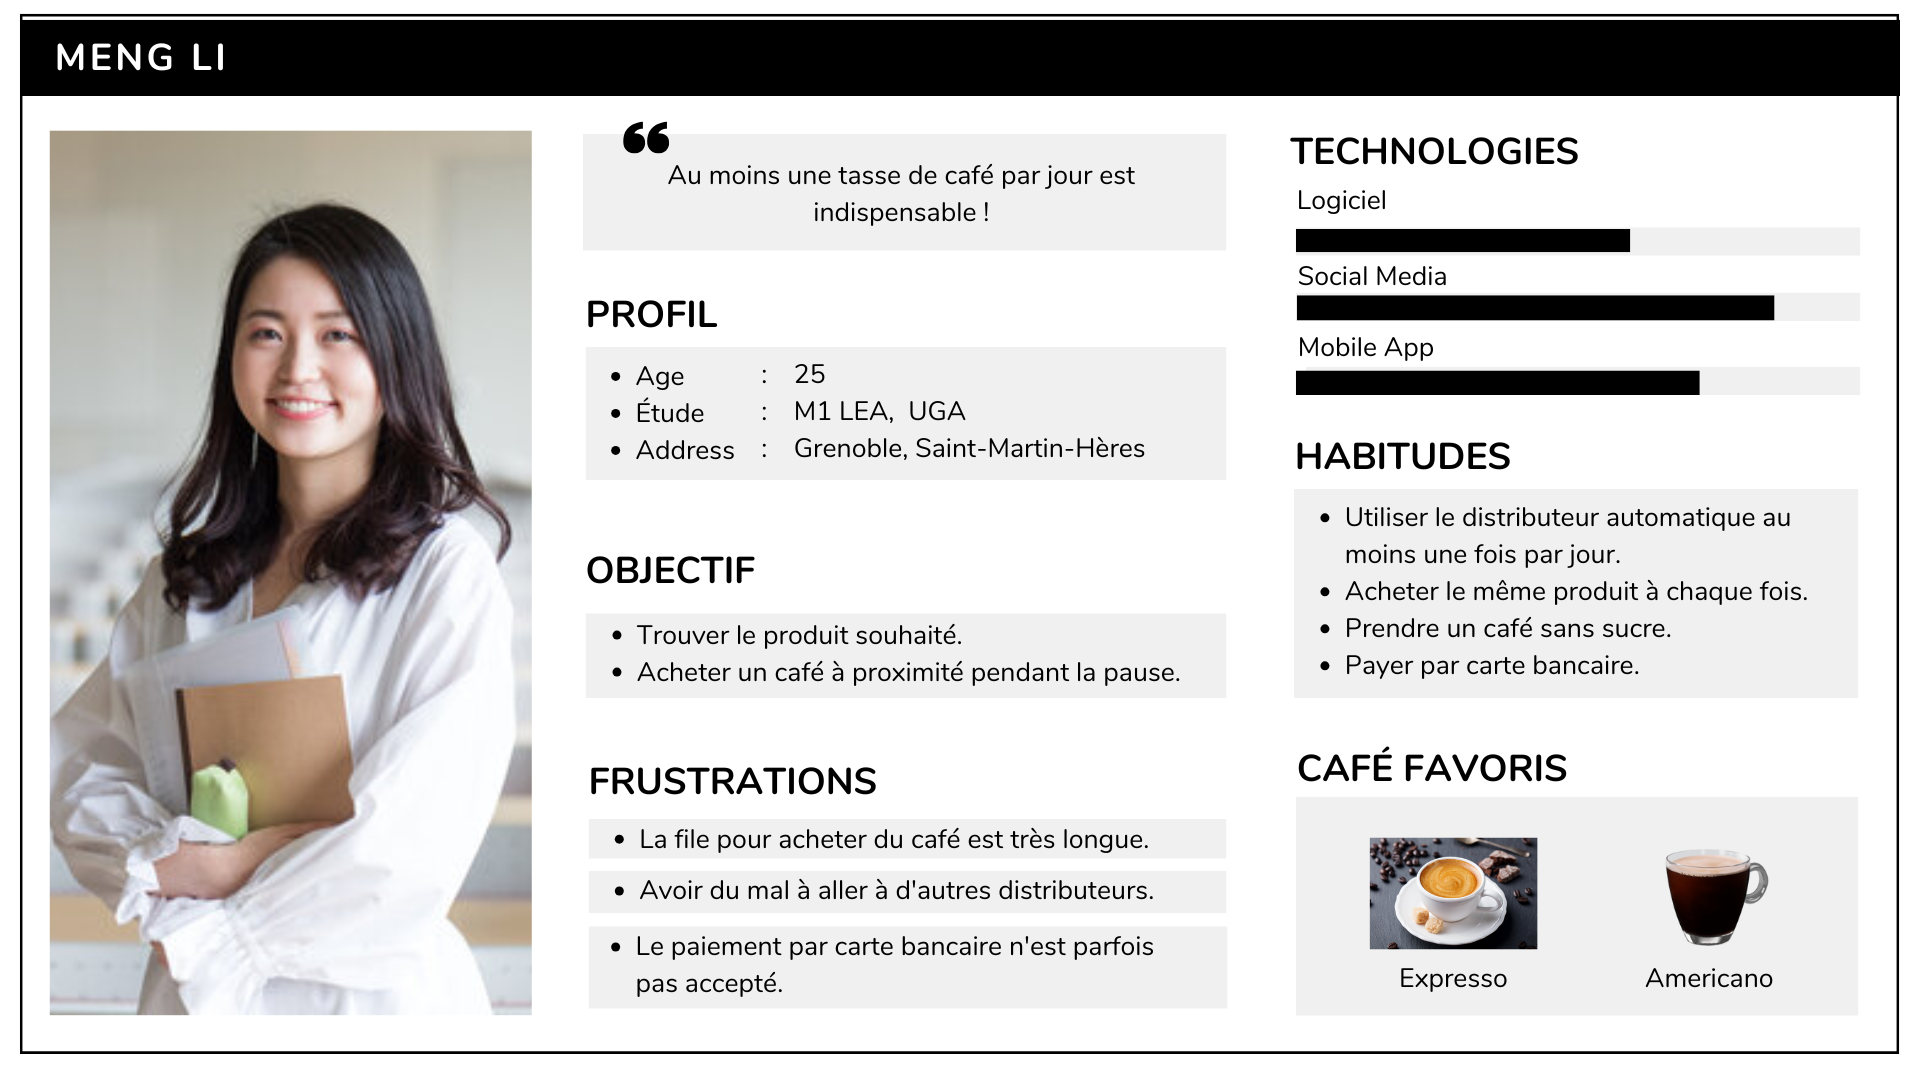
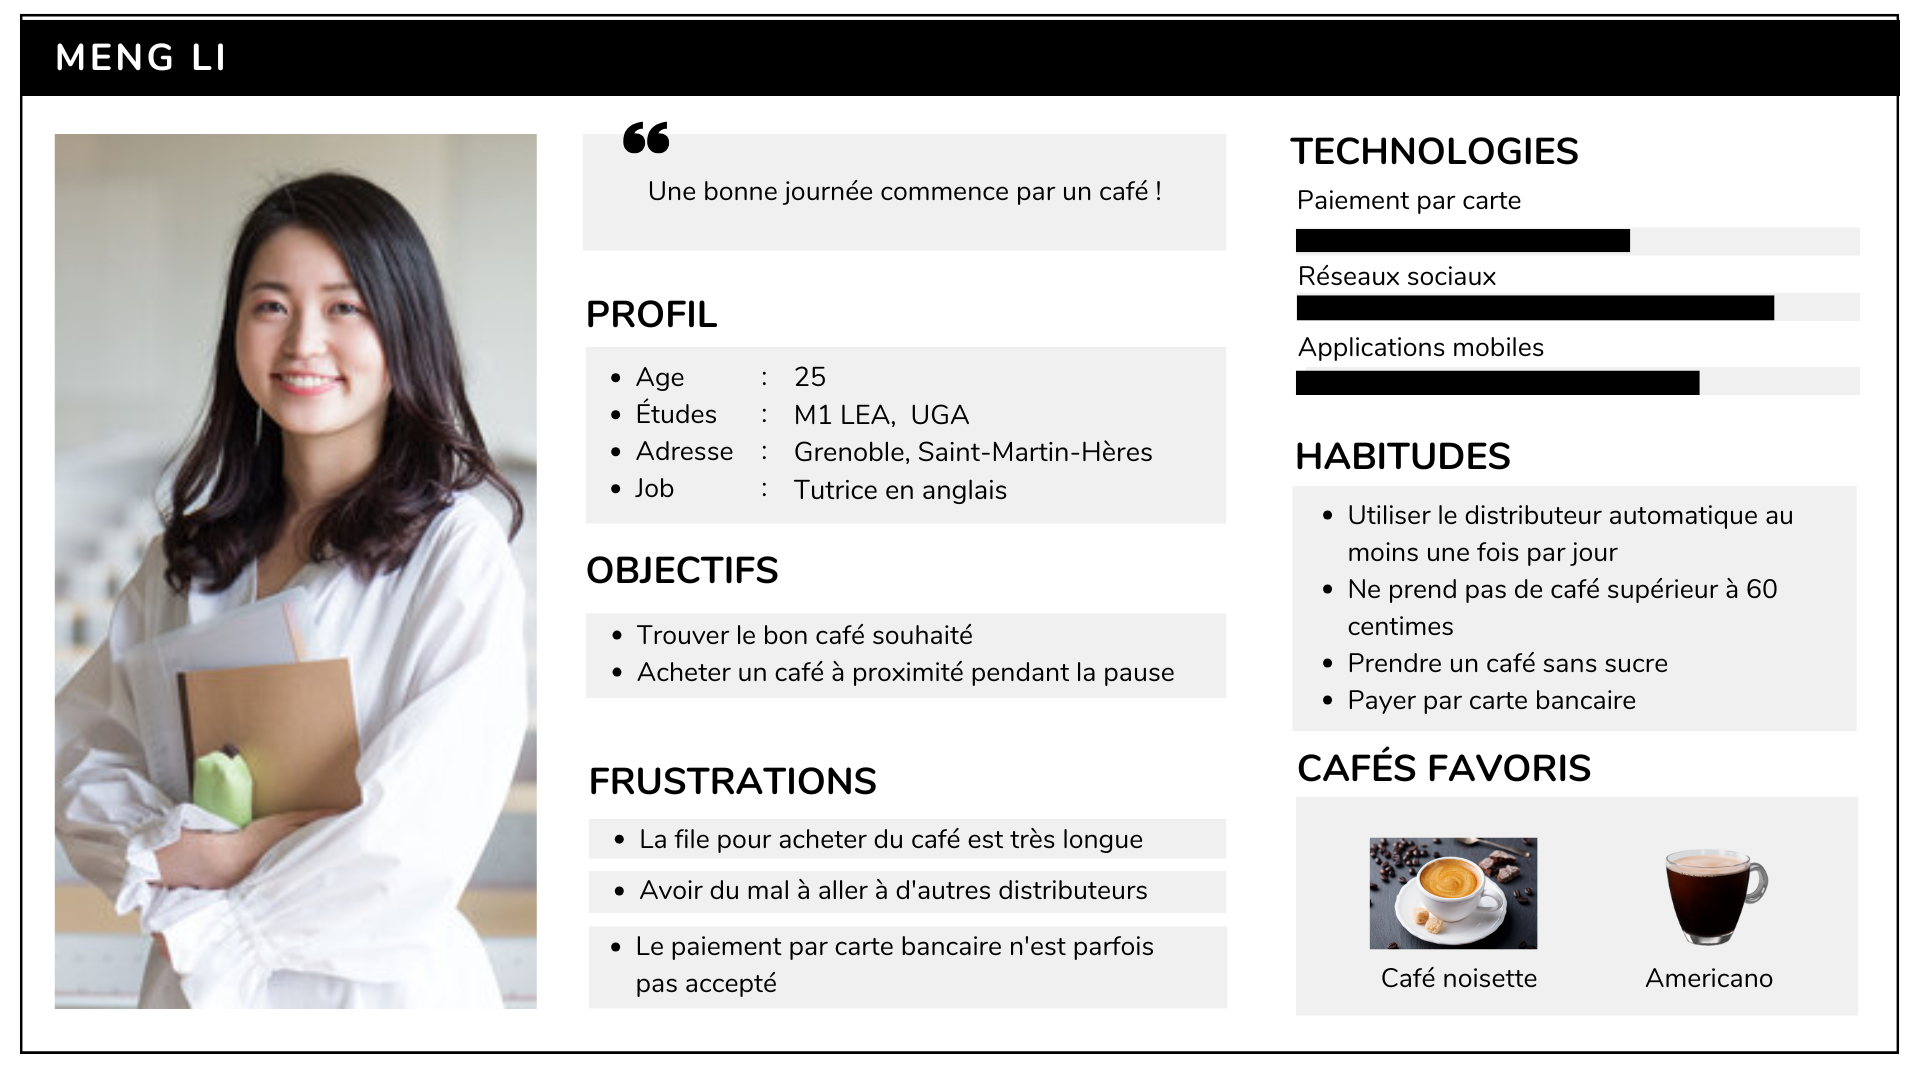
- update Persona Café : boisson préférée -> café noisette pour match avec scénario
-  update scénarios pour match avec personas

diff --git a/scenario.md b/scenario.md
@@ -1,13 +1,24 @@
-Scénario
+# Scénarios
 
-1 Happy-path
-Un étudiant de master a deux cours ce matin. Il est fatigué car il a travaillé sur ses devoirs jusqu'à tard hier soir. Après avoir terminé son premier cours du matin, il se dirige vers le distributeur automatique situé au rez-de-chaussée du bâtiment pour acheter un café. Il souhaite ingérer de la caféine pour se réveiller, mais n’aime pas l’amertume du café. Il achète donc toujours un café noisette. Cependant, la machine qu’il utilise habituellement affiche "communication impossible", et lorsque l’utilisateur appuie sur le bouton pour sélectionner un produit,  l'écran clignote avec le message "choisissez une boisson", sans réponse de la machine.
-Il se souvient qu’il y a un autre machine à café dans le bâtiment en face, à environ trois minutes à pied.
-Sur l’application, il constate que la machine dans le bâtiment voisin se trouve également au rez-de-chaussée. Elle propose le même produit que celui qu’il souhaite acheter, au même prix, et semble fonctionner normalement. Il lui reste seulement neuf minutes avant le début de son prochain cours, il se dépêche donc de se rendre dans le bâtiment d’en face.
-En entrant dans le bâtiment, il repère rapidement la machine. Il s’approche du distributeur de café et voit le message "choisissez le boisson" sur l’écran. L’utilisateur appuie sur le bouton du café noisette, puis sur celui permettant de maximiser la quantité de sucre. En vérifiant le montant affiché à l’écran, il passe son smartphone pour effectuer le paiement. Lorsque le message "paiement accepté" apparaît, l’appareil met environ 30 secondes pour préparer la boisson. L’utilisateur prend délicatement le gobelet pour ne pas le renverser et récupère son café chaud. Il se dirige ensuite à pied vers la salle de son prochain cours. En revenant vers l’autre bâtiment, il utilise son smartphone pour signaler la panne de la machine précédente.
+### 1. Scénario _Happy Path_ :
 
-2 Mauvaise
-Un étudiant en master a deux cours ce matin. Il est fatigué car il a travaillé sur ses devoirs jusqu'à tard hier soir. Après avoir terminé son premier cours, il se dirige vers le distributeur automatique situé au rez-de-chaussée du bâtiment pour acheter un café. Il souhaite ingérer de la caféine pour se réveiller, mais il n'aime pas l'amertume du café. Donc il achète toujours un café noisette.
-Devant la machine, deux autres personnes sont en train d'attendre. Après environ trois minutes d'attente, l'utilisateur appuie sur le bouton du café noisette et sur le bouton pour maximiser la quantité de sucre. Cependant, la machine ne répond pas. Il appuie sur le bouton d'annulation et tente de recommencer, mais l'écran clignote avec le message "choisissez une boisson", sans réponse de la machine.
-Il se souvient qu'il y a un autre distributeur de café dans le bâtiment en face, à environ trois minutes à pied. Après avoir vérifié sur l'application, il constate que la machine se trouve également au rez-de-chaussée du bâtiment. En consultant la page des produits disponibles, il remarque que le café noisette exact qu'il veut n'est pas proposé. Cependant, il y a un produit "Caramel Macchiato", et il décide d’en acheter en ajoutant du sucre. Selon l'application, la machine semble fonctionner normalement. Il constate qu'il ne lui reste que neuf minutes avant le début de son prochain cours et se dépêche de se rendre dans le bâtiment voisin.
-En entrant dans le bâtiment, il se dirige immédiatement vers la machine. Lorsqu'il s'approche du distributeur de café, il voit qu'il y a trois personnes qui attendent devant lui. Comme la file d'attente n'avance pas rapidement, il observe la machine et constate que celle-ci est également en panne, car elle ne répond pas lorsque les gens tentent d'effectuer un paiement. Le début du prochain cours approchant, les gens quittent les lieux une à une. Lorsqu'il arrive à son tour, il appuie sur le bouton du “Caramel Macchiato”. Cependant, même lorsqu'il tente de passer son smartphone, il n'y a pas de réaction. Finalement, il ne parvient pas à obtenir son Caramel Macchiato et, étant donné qu'il est déjà en retard pour le début du cours, il doit se rendre à la salle de classe. En retournant rapidement au bâtiment d'origine, il utilise son smartphone pour signaler la panne de cette machine ainsi que celle de la première. Lorsqu'il ouvre l'application, il remarque que le statut de la machine a déjà été changé en "hors service".
+Meng, étudiante en master LEA Anglais-Espagnol a deux cours ce matin. Elle est fatiguée car elle a passé sa soirée à travailler pour des devoirs à rendre. Après avoir terminé son premier cours du matin, elle se rend au distributeur situé au rez-de-chaussée du bâtiment pour prendre un café. Elle n'aime pas le goût amer du café, c'est pourquoi elle achète toujours des cafés noisette.
+
+Une fois arrivée, elle voit au-dessus de la machine une rangée de gobelets : c'est mauvais signe. Elle se rapproche et effectivement, la machine affiche, comme bien trop souvent, "Communication Impossible".
+
+Meng décide donc de chercher une autre machine avec l'application.
+En l'ouvrant, elle constate qu'il y a un distributeur en état de marche à la Maison des Langues, soit à quatre minutes à pied, qui propose aussi un café noisette. Cerise sur le gâteau : le distributeur le vend pour 1,10 euros au lieu de 1,40.
+
+En entrant dans le bâtiment, Meng cherche la machine des yeux. Après quelques instants, elle la repère : elle est au fond à droite. Elle s’approche du distributeur de café qui affiche le message "Choisissez la boisson". Meng appuie sur le bouton du café noisette et sélectionne le niveau de sucre maximal. En vérifiant le montant affiché à l’écran, qui est bien de 1,10 euros, elle passe son smartphone pour effectuer le paiement sans contact. Lorsque le message "Paiement accepté" apparaît, la machine s'allume et commence la préparation du café noisette, qui dure environ 30 secondes. Ravie, Meng prend délicatement le gobelet pour ne pas renverser son café chaud. Elle se rend ensuite vers la salle de son prochain cours, à Stendhal. Sur le chemin, elle prend le temps de signaler la panne de la machine précédente.
+
+### 2. Scénario difficile
+
+Dan est étudiant en L2 Economie et a une longue journée devant lui. Il commence à 8 heures et termine les cours à 18 heures. A 16 heures, vers la fin de son troisième cours, Dan entend son ventre gargouiller. Son camarade de classe devant lui se retourne et souffle du nez. Il a un gros creux. Pendant la pause, il se dirige alors vers le distributeur du rez-de-chaussée pour acheter un _Kinder Bueno_ classique, son péché mignon.
+
+Devant la machine, deux personnes font la queue. Après environ trois minutes d'attente, Dan sélectionne le _Kinder Bueno_. Il passe sa carte devant le lecteur sans contact et attend. Malheureusement, la machine ne répond pas. Il appuie sur le bouton d'annulation et réessaie, sans succès : la machine affiche le message "Choisissez un article".
+
+Dan pousse un long soupir d'exaspération et après avoir tapé la vitre quelques fois en vain, il ouvre l'application pour trouver une machine à proximité, car il a vraiment besoin de quelque chose pour se revigorer. Après avoir vérifié sur l'application, il voit qu'une autre machine, qui apparaît comme étant en état de marche, se trouve dans le bâtiment Simone Veil, à trois minutes à pied. Il regarde les produits proposés par ce distributeur et constate qu'il n'y a plus de _Kinder Bueno_ classiques là-bas. Cependant, la machine propose des _Kinder Bueno White_. Il les trouve moins bons mais décide de faire avec. En regardant l'heure sur son téléphone, Dan se rend compte qu'il ne lui reste plus que neuf minutes avant le début du prochain cours et se dépêche de se rendre à Simone Veil.
+
+En entrant dans le bâtiment, Dan se dirige immédiatement vers la machine. Il y a déjà une en train de l'utiliser. Dan attend deux minutes derrière elle. La personne met du temps à choisir mais finit par prendre un _Kinder Bueno White_. Avec un petit sourire, il se dit que c'est une drôle de coïncidence. La personne prend son _Kinder_ et repart. Dan s'avance vers la machine, et cherche le numéro du _Kinder Bueno_. A son grand désarroi, il réalise qu'il n'y a plus en stock : la personne avant lui a pris le dernier.
+
+Dan est au bout du rouleau. Son ventre crie famine mais puisque son cours commence très bientôt, il jette l'éponge et retourne dans la Faculté d'Economie.
